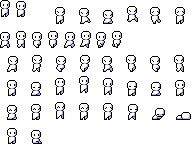
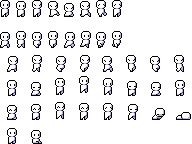
Better tiles

diff --git a/game/tile.go b/game/tile.go
@@ -2,63 +2,50 @@ package game
 
 import (
 	rl "github.com/gen2brain/raylib-go/raylib"
+
+	"game3/assets"
 )
 
 type Tile struct {
+	Position    rl.Vector2
+	HitboxRect  rl.Rectangle
 	Type        string
 	Variant     string
 	IsSolid     bool
 	Sprite      rl.Texture2D
 	TextureRect rl.Rectangle
 	BaseColor   rl.Color
+	HasTexture  bool
 }
 
 func (tile Tile) Draw() {
-	rl.DrawRectangle(
-		tile.TextureRect.ToInt32().X,
-		tile.TextureRect.ToInt32().Y,
-		tile.TextureRect.ToInt32().Width,
-		tile.TextureRect.ToInt32().Height,
-		tile.BaseColor,
-	)
+	if tile.HasTexture {
+		rl.DrawTextureRec(tile.Sprite, tile.TextureRect, tile.Position, rl.White)
+	} else {
+		rl.DrawRectangle(
+			int32(tile.Position.X),
+			int32(tile.Position.Y),
+			tile.TextureRect.ToInt32().Width,
+			tile.TextureRect.ToInt32().Height,
+			tile.BaseColor,
+		)
+	}
 }
 
 func BasicTestLevelLayout() []Tile {
 	var layout []Tile
-
-	// floor first row
-	for y := 0; y < 40; y++ {
-		tileRect := rl.NewRectangle(float32(8 * y), 172, 8, 8)
-		tile := Tile{
-			Type:        "grass",
-			IsSolid:     true,
-			TextureRect: tileRect,
-			BaseColor:   grassRegularGreen,
-		}
-
-		layout = append(layout, tile)
-    }
-
-	// floor second row
-	for y := 0; y < 40; y++ {
-		tileRect := rl.NewRectangle(float32(8 * y), 164, 8, 8)
-		tile := Tile{
-			Type:        "grass",
-			IsSolid:     true,
-			TextureRect: tileRect,
-			BaseColor:   grassRegularGreen,
-		}
-
-		layout = append(layout, tile)
-    }
+	groundImage := rl.LoadImageFromMemory(".png", assets.GROUND_SPRITE_DATA, int32(len(assets.GROUND_SPRITE_DATA)))
 
 	// close floating platform
 	for y := 0; y < 7; y++ {
-		tileRect := rl.NewRectangle(200 + float32(8 * y), 124, 8, 8)
+		position := rl.NewVector2(200 + float32(8 * y), 124)
+
 		tile := Tile{
+			Position:    position,
 			Type:        "grass",
 			IsSolid:     true,
-			TextureRect: tileRect,
+			TextureRect: rl.NewRectangle(200 + float32(8 * y), 124, 8, 8),
+			HitboxRect:  rl.NewRectangle(position.X, position.Y, 8, 8),
 			BaseColor:   grassRegularGreen,
 		}
 
@@ -67,11 +54,14 @@ func BasicTestLevelLayout() []Tile {
 
 	// middle floating platform
 	for y := 0; y < 7; y++ {
-		tileRect := rl.NewRectangle(110 + float32(8 * y), 105, 8, 8)
+		position := rl.NewVector2(110 + float32(8 * y), 105)
+
 		tile := Tile{
+			Position:    position,
 			Type:        "grass",
 			IsSolid:     true,
-			TextureRect: tileRect,
+			TextureRect: rl.NewRectangle(0, 0, 8, 8),
+			HitboxRect:  rl.NewRectangle(position.X, position.Y, 8, 8),
 			BaseColor:   grassRegularGreen,
 		}
 
@@ -80,12 +70,67 @@ func BasicTestLevelLayout() []Tile {
 
 	// far floating platform
 	for y := 0; y < 7; y++ {
-		tileRect := rl.NewRectangle(20 + float32(8 * y), 90, 8, 8)
+		position := rl.NewVector2(20 + float32(8 * y), 90)
+
 		tile := Tile{
+			Position:    position,
 			Type:        "grass",
 			IsSolid:     true,
-			TextureRect: tileRect,
+			TextureRect: rl.NewRectangle(0, 0, 8, 8),
+			HitboxRect:  rl.NewRectangle(position.X, position.Y, 8, 8),
 			BaseColor:   grassRegularGreen,
+		}
+
+		layout = append(layout, tile)
+    }
+
+	// right wall
+	for y := 0; y < 21; y++ {
+		position := rl.NewVector2(312, float32(y * 8))
+
+		tile := Tile{
+			Position:    position,
+			Type:        "wall",
+			IsSolid:     true,
+			TextureRect: rl.NewRectangle(position.X, position.Y, 8, 8),
+			HitboxRect:  rl.NewRectangle(position.X, position.Y, 8, 8),
+			BaseColor:   rl.NewColor(0, 0, 0, 255),
+		}
+
+		layout = append(layout, tile)
+    }
+
+	// floor first row
+	for y := 0; y < 40; y++ {
+		position := rl.NewVector2(float32(8 * y), 172)
+
+		tile := Tile{
+			Position:    position,
+			HitboxRect:  rl.NewRectangle(position.X, position.Y, 8, 8),
+			Type:        "grass",
+			IsSolid:     true,
+			BaseColor:   grassRegularGreen,
+			Sprite:      rl.LoadTextureFromImage(groundImage),
+			TextureRect: rl.NewRectangle(float32(y % 2 * 8), 8, 8, 8),
+			HasTexture:  true,
+		}
+
+		layout = append(layout, tile)
+    }
+
+	// floor second row
+	for y := 0; y < 40; y++ {
+		position := rl.NewVector2(float32(8 * y), 164)
+
+		tile := Tile{
+			Position:    position,
+			HitboxRect:  rl.NewRectangle(position.X, position.Y, 8, 8),
+			Type:        "grass",
+			Sprite:      rl.LoadTextureFromImage(groundImage),
+			TextureRect: rl.NewRectangle(float32(y % 2 * 8), 0, 8, 8),
+			BaseColor:   grassRegularGreen,
+			IsSolid:     true,
+			HasTexture:  true,
 		}
 
 		layout = append(layout, tile)

diff --git a/game/player.go b/game/player.go
@@ -1,8 +1,6 @@
 package game
 
 import (
-	"log"
-
 	rl "github.com/gen2brain/raylib-go/raylib"
 
 	"game3/assets"
@@ -12,9 +10,9 @@ const (
 	PLAYER_WIDTH        float32 = 24
 	PLAYER_HEIGHT       float32 = 24
 	PLAYER_MOVE_SPEED   float32 = 120
-	PLAYER_ACCELERATION float32 = 700
+	PLAYER_ACCELERATION float32 = 1000
 	PLAYER_DECELERATION float32 = 1100
-	PLAYER_JUMP_FORCE   float32 = -300
+	PLAYER_JUMP_FORCE   float32 = -280
 )
 
 type Player struct {
@@ -41,7 +39,7 @@ func InitPlayer() *Player {
 	playerImage := rl.LoadImageFromMemory(".png", assets.PLAYER_SPRITE_DATA, int32(len(assets.PLAYER_SPRITE_DATA)))
 
 	player := Player{
-		Position:        rl.NewVector2(10, 100),
+		Position:        rl.NewVector2(10, 140),
 		Velocity:        rl.NewVector2(0, 0),
 		OnGround:        false,
 		MaxHealth:       20,
@@ -76,8 +74,8 @@ func (player *Player) Draw() {
 	}
 
 	rl.DrawTextureRec(player.Sprite, player.TextureRect, spriteVector, rl.White)
-	rl.DrawRectangleLinesEx(player.HitboxRect, 1, rl.NewColor(230, 41, 55, 100))
-	rl.DrawPixel(int32(player.Position.X), int32(player.Position.Y), rl.Green)
+	// rl.DrawRectangleLinesEx(player.HitboxRect, 1, rl.NewColor(230, 41, 55, 100))
+	// rl.DrawPixel(int32(player.Position.X), int32(player.Position.Y), rl.Green)
 }
 
 func (player *Player) Tick(delta float32, room *Room) {
@@ -89,8 +87,8 @@ func (player *Player) Tick(delta float32, room *Room) {
 }
 
 func (player *Player) ProcessInput(delta float32) {
-	moveLeft := rl.IsKeyDown(rl.KeyA)
-	moveRight := rl.IsKeyDown(rl.KeyD)
+	moveLeft := rl.IsKeyDown(rl.KeyA) || rl.IsGamepadButtonDown(1, rl.GamepadButtonLeftFaceLeft)
+	moveRight := rl.IsKeyDown(rl.KeyD) || rl.IsGamepadButtonDown(1, rl.GamepadButtonLeftFaceRight)
 	jump := rl.IsKeyDown(rl.KeySpace)
 	reset := rl.IsKeyPressed(rl.KeyR)
 
@@ -200,7 +198,6 @@ func (player *Player) UpdateAnimation() {
 	player.FramesCounter++
 
 	if player.FramesCounter >= (60 / player.FramesSpeed) {
-		log.Println("INSIDE")
 		player.FramesCounter = 0
 		player.CurrentFrame++
 
@@ -229,25 +226,23 @@ func (player *Player) HandleTileCollisions(layout []Tile) {
 	player.OnGround = false
 
 	for _, tile := range layout {
-		if rl.CheckCollisionRecs(tile.TextureRect, player.HitboxRect) {
-			overlapLeft := (player.HitboxRect.X + player.HitboxRect.Width) - tile.TextureRect.X
-			overlapRight := (tile.TextureRect.X + tile.TextureRect.Width) - player.HitboxRect.X
-			overlapTop := (player.HitboxRect.Y + player.HitboxRect.Height) - tile.TextureRect.Y
-			overlapBottom := (tile.TextureRect.Y + tile.TextureRect.Height) - player.HitboxRect.Y
+		if rl.CheckCollisionRecs(tile.HitboxRect, player.HitboxRect) {
+			overlapLeft := (player.HitboxRect.X + player.HitboxRect.Width) - tile.HitboxRect.X
+			overlapRight := (tile.HitboxRect.X + tile.HitboxRect.Width) - player.HitboxRect.X
+			overlapTop := (player.HitboxRect.Y + player.HitboxRect.Height) - tile.Position.Y
+			overlapBottom := (tile.Position.Y + tile.HitboxRect.Height) - player.HitboxRect.Y
 
 			minOverlap := overlapLeft
-			collisionSide := "RIGHT"
+			collisionSide := "LEFT"
 
 			if overlapRight < minOverlap {
 				minOverlap = overlapRight
 				collisionSide = "RIGHT"
 			}
-
 			if overlapTop < minOverlap {
 				minOverlap = overlapTop
 				collisionSide = "TOP"
 			}
-
 			if overlapBottom < minOverlap {
 				minOverlap = overlapBottom
 				collisionSide = "BOTTOM"
@@ -255,17 +250,17 @@ func (player *Player) HandleTileCollisions(layout []Tile) {
 
 			switch collisionSide {
 			case "TOP":
-				player.Position.Y = tile.TextureRect.Y - player.TextureRect.Height
+				player.Position.Y = tile.Position.Y - player.HitboxRect.Height
 				player.Velocity.Y = 0
 				player.OnGround = true
 			case "BOTTOM":
-				player.Position.Y = tile.TextureRect.Y + tile.TextureRect.Height
+				player.Position.Y = tile.Position.Y + tile.HitboxRect.Height
 				player.Velocity.Y = 0
 			case "LEFT":
-				player.Position.X = tile.TextureRect.X - player.TextureRect.Width
+				player.Position.X = tile.Position.X - player.HitboxRect.Width
 				player.Velocity.X = 0
 			case "RIGHT":
-				player.Position.X = tile.TextureRect.X + tile.TextureRect.Width
+				player.Position.X = tile.Position.X + tile.HitboxRect.Width
 				player.Velocity.X = 0
 			}
 

diff --git a/game/game.go b/game/game.go
@@ -14,8 +14,8 @@ const (
 )
 
 const (
-	GRAVITY                float32 = 1000
-	FALL_TERMINAL_VELOCITY float32 = 500
+	GRAVITY                float32 = 900
+	FALL_TERMINAL_VELOCITY float32 = 600
 )
 
 var gameStateName = map[GameState]string {
@@ -79,11 +79,19 @@ func (game *Game) LogState() {
 	moveRight := rl.IsKeyDown(rl.KeyD)
 	jump := rl.IsKeyPressed(rl.KeySpace)
 
+	rl.TraceLog(rl.LogInfo, "=======")
 	rl.TraceLog(rl.LogInfo, "frame: %d", game.AbsoluteFrame)
 	rl.TraceLog(rl.LogInfo, "player.Velocity: %f", game.Player.Velocity)
+	rl.TraceLog(rl.LogInfo, "player.FramesCounter: %d", game.Player.FramesCounter)
 	rl.TraceLog(rl.LogInfo, "input.moveLeft: %v", moveLeft)
 	rl.TraceLog(rl.LogInfo, "input.moveRight: %v", moveRight)
 	rl.TraceLog(rl.LogInfo, "input.jump: %v", jump)
+	rl.TraceLog(rl.LogInfo, "input.buttonPressed: %v", rl.GetGamepadButtonPressed())
+	rl.TraceLog(rl.LogInfo, "input.isGamePad0Present: %v, %v", rl.IsGamepadAvailable(0), rl.GetGamepadName(0))
+	rl.TraceLog(rl.LogInfo, "input.isGamePad1Present: %v, %v", rl.IsGamepadAvailable(1), rl.GetGamepadName(1))
+	rl.TraceLog(rl.LogInfo, "input.isGamePad2Present: %v", rl.IsGamepadAvailable(2))
+	rl.TraceLog(rl.LogInfo, "input.isGamePad3Present: %v", rl.IsGamepadAvailable(3))
+	rl.TraceLog(rl.LogInfo, "input.isGamePad4Present: %v", rl.IsGamepadAvailable(4))
 }
 
 func (game *Game) IncreaseFrameCount() {

diff --git a/main.go b/main.go
@@ -26,6 +26,7 @@ var (
 )
 
 func main() {
+	slowMotionScale := 1
 	rl.InitWindow(VIRTUAL_WINDOW_WIDTH * 3, VIRTUAL_WINDOW_HEIGHT * 3, GAME_TITLE)
 	defer rl.CloseWindow()
 
@@ -55,8 +56,8 @@ func main() {
 			}
 
 			if instance.State == game.Playing {
-				instance.Tick(delta)
-				time.Sleep(time.Millisecond * 100)
+				instance.Tick(delta / float32(slowMotionScale))
+				time.Sleep(time.Millisecond * time.Duration(slowMotionScale))
 			}
 		}
 		rl.EndTextureMode()

diff --git a/assets/assets.go b/assets/assets.go
@@ -5,3 +5,7 @@ import _ "embed"
 /** PLAYER SPRITES */
 //go:embed player.png
 var PLAYER_SPRITE_DATA []byte
+
+/** GROUND SPRITES */
+//go:embed ground.png
+var GROUND_SPRITE_DATA []byte
